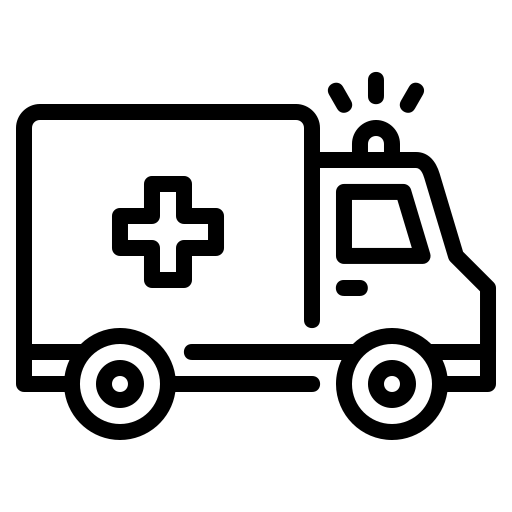
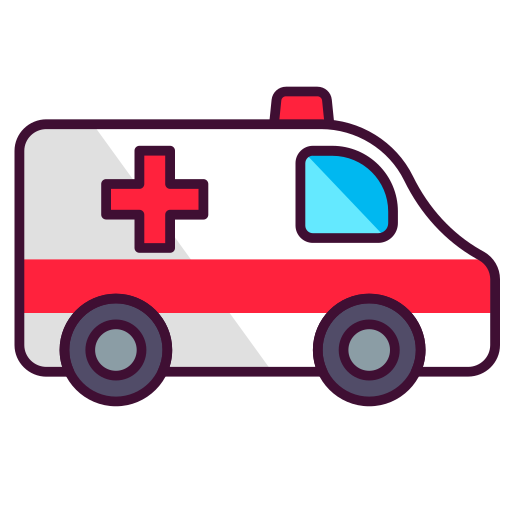
Proffesion and Vehicle pages

diff --git a/src/service_pages/Professional.js b/src/service_pages/Professional.js
@@ -1,12 +1,39 @@
 import React from 'react';
-import { View, Text, StyleSheet} from 'react-native';
+import { View, Text, TouchableOpacity, FlatList, StyleSheet, Image } from 'react-native';
+import { useNavigation } from '@react-navigation/native';
 
-const Professional = () => {
-  // Professional component logic here
+const Vehicle = () => {
+  const navigation = useNavigation();
+
+  const gridItems = [
+    { label: 'Lawyer', image: require('./../../assets/lawyer.png'), value: 'Lawyer' },
+    { label: 'Medical', image: require('./../../assets/medical-team.png'), value: 'Medical' },
+    { label: 'Insurance', image: require('./../../assets/health-insurance.png'),value: 'Insurance'},
+  ];
+
+  const handleSelect = (item) => {
+    navigation.navigate('UsersList', { skillSector: item.value });
+  };
+
+  const renderGridItem = ({ item }) => (
+    <TouchableOpacity
+      style={styles.gridItem}
+      onPress={() => handleSelect(item)}
+    >
+      <Image source={item.image} style={styles.gridImage} />
+      <Text style={styles.gridLabel}>{item.label}</Text>
+    </TouchableOpacity>
+  );
 
   return (
     <View style={styles.container}>
-      <Text style={styles.comingSoonText}>Coming Soon!</Text>
+      <FlatList
+        data={gridItems}
+        renderItem={renderGridItem}
+        keyExtractor={(item, index) => index.toString()}
+        numColumns={2}
+        style={styles.grid}
+      />
     </View>
   );
 };
@@ -14,13 +41,30 @@ const Professional = () => {
 const styles = StyleSheet.create({
   container: {
     flex: 1,
+    backgroundColor: '#ecf0f1',
+    padding: 20,
+  },
+  grid: {
+    marginTop: 10,
+  },
+  gridItem: {
+    flex: 1,
     justifyContent: 'center',
     alignItems: 'center',
+    backgroundColor: '#fff',
+    padding: 20,
+    margin: 10,
+    borderRadius: 10,
+    elevation: 5,
   },
-  comingSoonText: {
-    fontSize: 20,
-    fontWeight: 'bold',
+  gridImage: {
+    width: 40,
+    height: 40,
+    marginBottom: 10,
+  },
+  gridLabel: {
+    fontSize: 14,
   },
 });
 
-export default Professional;
+export default Vehicle;

diff --git a/src/service_pages/Vehicle.js b/src/service_pages/Vehicle.js
@@ -8,6 +8,9 @@ const Vehicle = () => {
   const gridItems = [
     { label: 'Three Wheeler', image: require('./../../assets/tuk-tuk.png'), value: 'Three-Wheeler' },
     { label: 'Car', image: require('./../../assets/3d-car.png'), value: 'Car' },
+    { label: 'Ambulance', image: require('./../../assets/ambulance.png'),value: 'Ambulance'},
+    { label: 'Petti Auto', image: require('./../../assets/mini-truck.png'),value: 'Petti Auto'},
+    { label: 'Tipper', image: require('./../../assets/dump-truck.png'),value: 'Tipper'},
   ];
 
   const handleSelect = (item) => {
